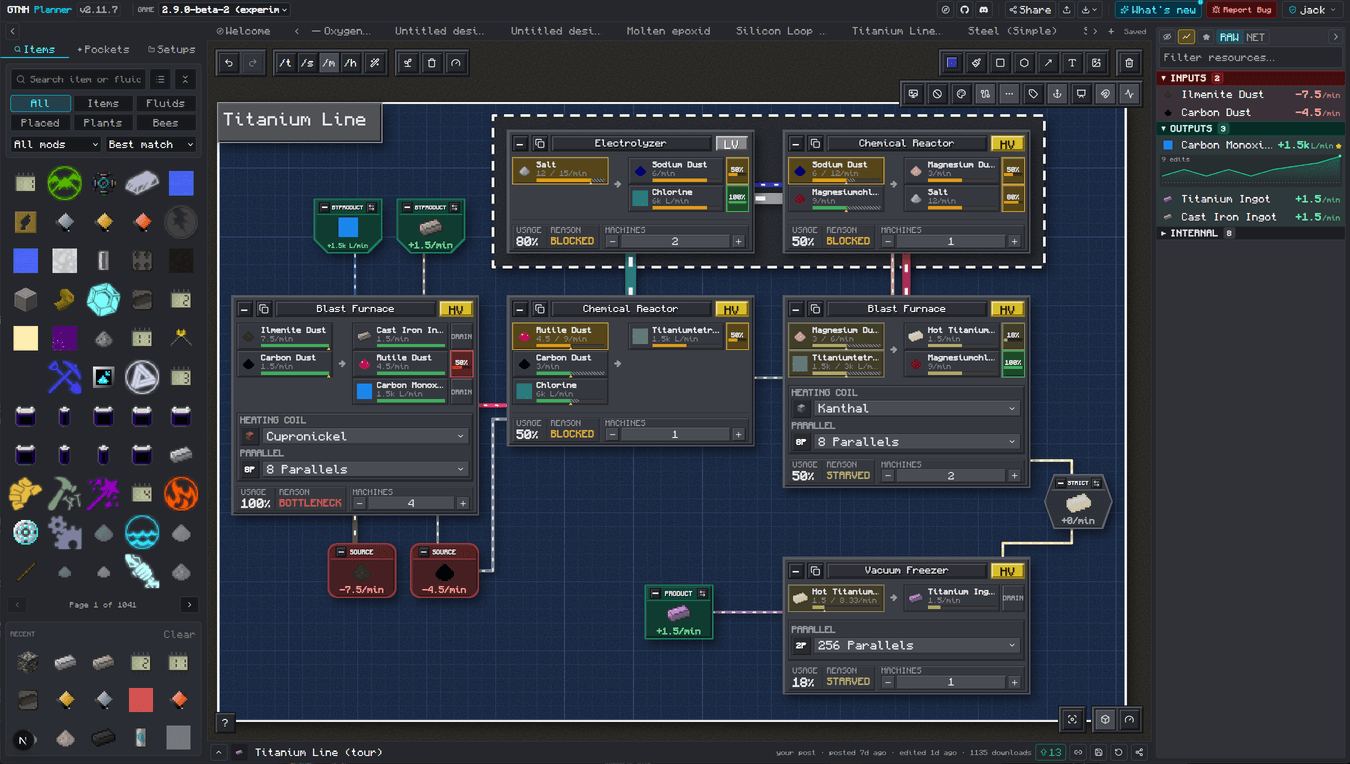
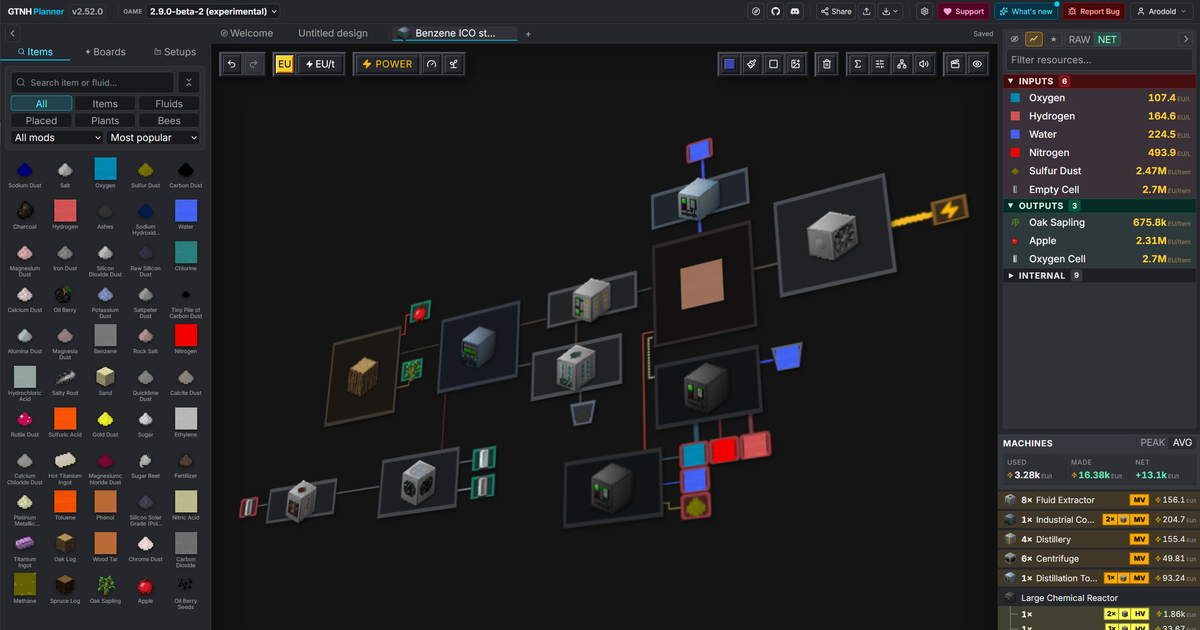
The link preview is a real board, and the site description stops naming 2.8.4
opengraph-image.png is Jack's screenshot of a Benzene setup, cropped from
the top edge to 1200x630 so the header and both columns stay in frame.
The page and Open Graph descriptions said "GTNH 2.8.4 and 2.9"; 2.8.4 was
dropped on 2026-08-26, so they now say 2.9.

Claude-Session: https://claude.ai/code/session_01EVtipVMazSBkto7ZFoiJrM

diff --git a/src/app/layout.tsx b/src/app/layout.tsx
@@ -105,7 +105,7 @@ export const metadata: Metadata = {
   applicationName: "GTNH Planner",
   title: "GTNH Planner | GregTech New Horizons Factory Calculator",
   description:
-    "Plan and optimize GregTech: New Horizons factories on an interactive flowchart. Full recipe data for GTNH 2.8.4 and 2.9, throughput and power calculation, machine ratios, and community-shared plans.",
+    "Plan and optimize GregTech: New Horizons factories on an interactive flowchart. Full recipe data for GTNH 2.9, throughput and power calculation, machine ratios, and community-shared plans.",
   alternates: {
     canonical: "/",
   },
@@ -131,7 +131,7 @@ export const metadata: Metadata = {
   openGraph: {
     title: "GTNH Planner | GregTech New Horizons Factory Calculator",
     description:
-      "Free factory planner for GregTech: New Horizons with full recipe data for GTNH 2.8.4 and 2.9. Draw production chains, balance machine ratios, find bottlenecks, and share plans with the community.",
+      "Free factory planner for GregTech: New Horizons with full recipe data for GTNH 2.9. Draw production chains, balance machine ratios, find bottlenecks, and share plans with the community.",
     siteName: "GTNH Planner",
     type: "website",
     url: "/",
@@ -140,7 +140,7 @@ export const metadata: Metadata = {
     card: "summary_large_image",
     title: "GTNH Planner | GregTech New Horizons Factory Calculator",
     description:
-      "Free factory planner for GregTech: New Horizons with full recipe data for GTNH 2.8.4 and 2.9. Draw production chains, balance machine ratios, find bottlenecks, and share plans with the community.",
+      "Free factory planner for GregTech: New Horizons with full recipe data for GTNH 2.9. Draw production chains, balance machine ratios, find bottlenecks, and share plans with the community.",
   },
   icons: {
     icon: [
